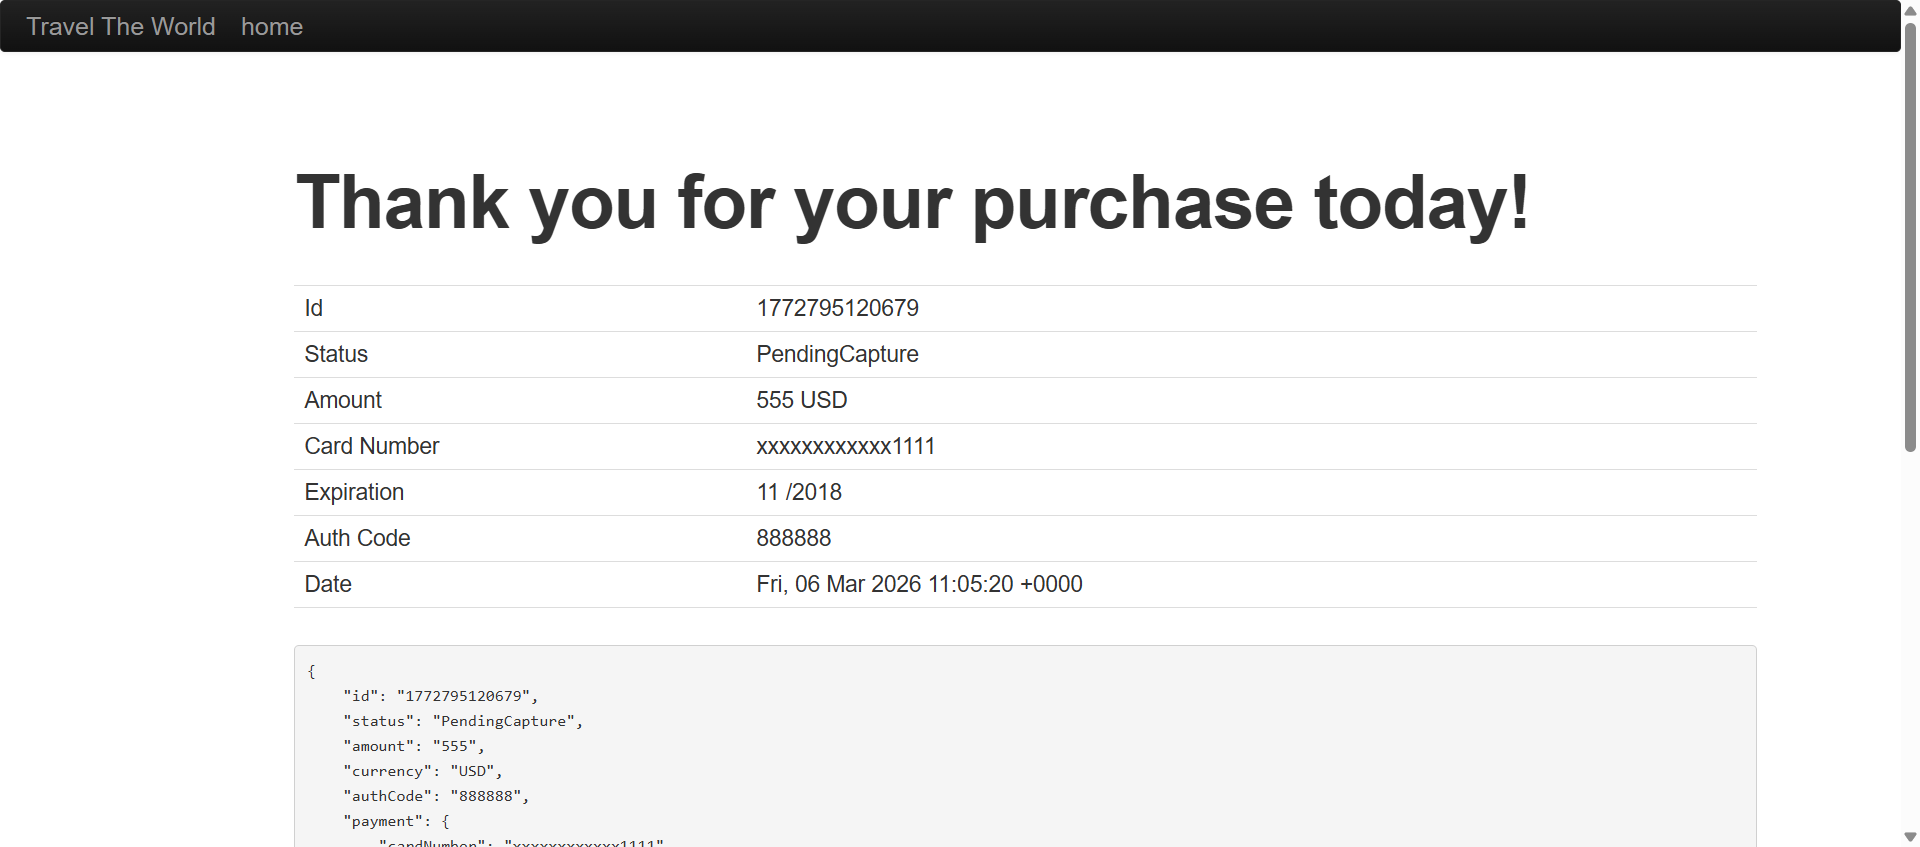
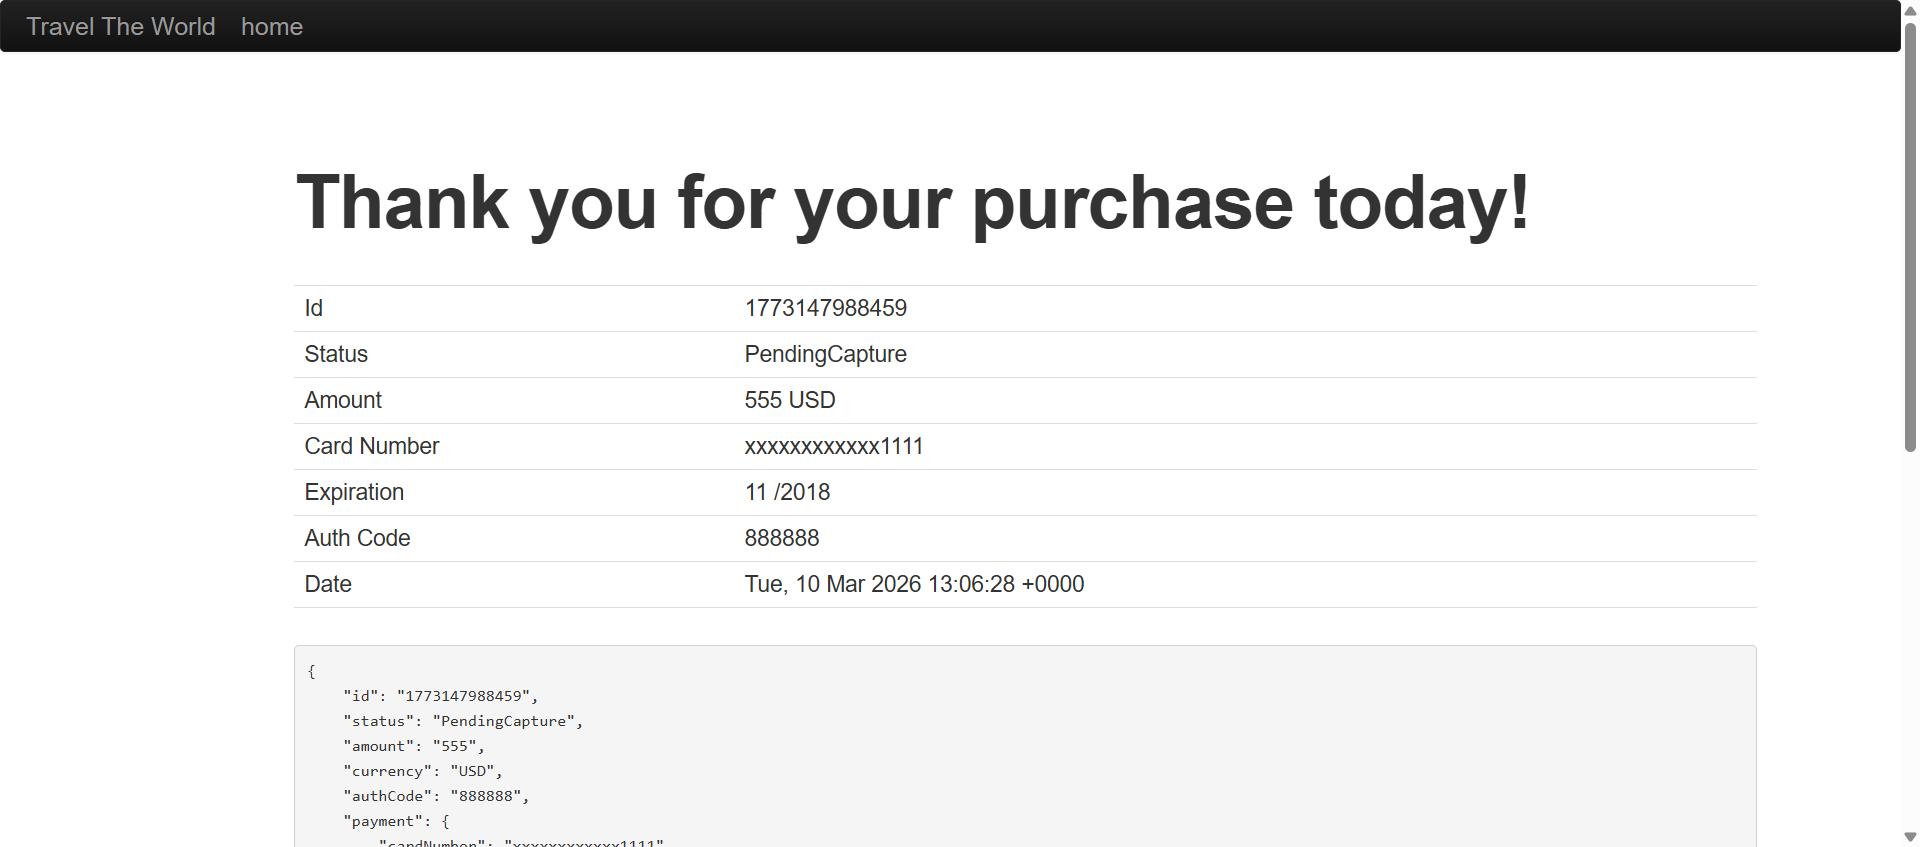
update

diff --git a/test-output/emailable-report.html b/test-output/emailable-report.html
@@ -9,9 +9,9 @@
 <table>
 <tr><th>Test</th><th># Passed</th><th># Skipped</th><th># Retried</th><th># Failed</th><th>Time (ms)</th><th>Included Groups</th><th>Excluded Groups</th></tr>
 <tr><th colspan="8">FlightSuite</th></tr>
-<tr><td><a href="#t0">FlightTest</a></td><td class="num">1</td><td class="num">0</td><td class="num">0</td><td class="num">0</td><td class="num">9,758</td><td></td><td></td></tr>
+<tr><td><a href="#t0">FlightTest</a></td><td class="num">1</td><td class="num">0</td><td class="num">0</td><td class="num">0</td><td class="num">17,339</td><td></td><td></td></tr>
 </table>
-<table id='summary'><thead><tr><th>Class</th><th>Method</th><th>Start</th><th>Time (ms)</th></tr></thead><tbody><tr><th colspan="4">FlightSuite</th></tr></tbody><tbody id="t0"><tr><th colspan="4">FlightTest &#8212; passed</th></tr><tr class="passedeven"><td rowspan="1">com.flightbooking.tests.FlightBookingTest</td><td><a href="#m0">bookFlightTest</a></td><td rowspan="1">1772795113464</td><td rowspan="1">4008</td></tr></tbody>
+<table id='summary'><thead><tr><th>Class</th><th>Method</th><th>Start</th><th>Time (ms)</th></tr></thead><tbody><tr><th colspan="4">FlightSuite</th></tr></tbody><tbody id="t0"><tr><th colspan="4">FlightTest &#8212; passed</th></tr><tr class="passedeven"><td rowspan="1">com.flightbooking.tests.FlightBookingTest</td><td><a href="#m0">bookFlightTest</a></td><td rowspan="1">1773147977770</td><td rowspan="1">10730</td></tr></tbody>
 </table>
 <h2>FlightTest</h2><h3 id="m0">com.flightbooking.tests.FlightBookingTest#bookFlightTest</h3><table class="result"><tr><th class="invisible"/></tr></table><p class="totop"><a href="#summary">back to summary</a></p>
 </body>

diff --git a/test-output/index.html b/test-output/index.html
@@ -189,12 +189,12 @@ data.addRows(1);
 data.setCell(0, 0, 0)
 data.setCell(0, 1, 'bookFlightTest')
 data.setCell(0, 2, 'com.flightbooking.tests.FlightBookingTest')
-data.setCell(0, 3, 4008);
+data.setCell(0, 3, 10730);
 window.suiteTableData['FlightSuite']= { tableData: data, tableDiv: 'times-div-FlightSuite'}
 return data;
 }
               </script>
-              <span class="suite-total-time">Total running time: 4 seconds</span>
+              <span class="suite-total-time">Total running time: 10 seconds</span>
               <div id="times-div-FlightSuite">
               </div> <!-- times-div-FlightSuite -->
             </div> <!-- times-div -->
@@ -227,11 +227,11 @@ return data;
               </div> <!-- configuration-method before -->
               <div class="test-method">
                 <span class="method-name">bookFlightTest</span>
-                <span class="method-start">5366 ms</span>
+                <span class="method-start">6343 ms</span>
               </div> <!-- test-method -->
               <div class="configuration-method after">
                 <span class="method-name">tearDown</span>
-                <span class="method-start">9382 ms</span>
+                <span class="method-start">17081 ms</span>
               </div> <!-- configuration-method after -->
           </div> <!-- main-panel-content rounded-window-bottom -->
         </div> <!-- panel -->

diff --git a/test-output/FlightSuite/FlightTest.html b/test-output/FlightSuite/FlightTest.html
@@ -57,9 +57,9 @@ function toggleAllBoxes() {
 <tr>
 <td>Tests passed/Failed/Skipped:</td><td>1/0/0</td>
 </tr><tr>
-<td>Started on:</td><td>Fri Mar 06 16:35:08 IST 2026</td>
+<td>Started on:</td><td>Tue Mar 10 18:36:11 IST 2026</td>
 </tr>
-<tr><td>Total time:</td><td>9 seconds (9758 ms)</td>
+<tr><td>Total time:</td><td>17 seconds (17339 ms)</td>
 </tr><tr>
 <td>Included groups:</td><td></td>
 </tr><tr>
@@ -78,8 +78,8 @@ function toggleAllBoxes() {
 <tr>
 <td title='com.flightbooking.tests.FlightBookingTest.bookFlightTest()'><b>bookFlightTest</b><br>Test class: com.flightbooking.tests.FlightBookingTest</td>
 <td></td>
-<td>4</td>
-<td>com.flightbooking.tests.FlightBookingTest@30c15d8b</td></tr>
+<td>10</td>
+<td>com.flightbooking.tests.FlightBookingTest@74235045</td></tr>
 </table><p>
 </body>
 </html>

diff --git a/src/test/java/com/flightbooking/tests/FlightBookingTest.java b/src/test/java/com/flightbooking/tests/FlightBookingTest.java
@@ -2,30 +2,34 @@ package com.flightbooking.tests;
 
 import org.testng.Assert;
 import org.testng.annotations.Test;
-
 import base.BaseClass;
 import pages.*;
 import utils.ScreenshotUtil;
 
+
 public class FlightBookingTest extends BaseClass {
 
 	@Test
-	public void bookFlightTest() {
+	public void bookFlightTest() throws InterruptedException {
 
 	HomePage home = new HomePage(driver);
 	home.selectCities();
 	home.clickFindFlights();
+	Thread.sleep(2000);
 
 	FlightsPage flights = new FlightsPage(driver);
 	flights.chooseFlight();
+	Thread.sleep(2000);
 
 	PurchasePage purchase = new PurchasePage(driver);
 	purchase.enterPassengerDetails();
 	purchase.enterPaymentDetails();
 	purchase.clickPurchaseFlight();
+	Thread.sleep(2000);
 
 	ConfirmationPage confirm = new ConfirmationPage(driver);
 	String message = confirm.getConfirmationMessage();
+	Thread.sleep(2000);
 
 	Assert.assertTrue(message.contains("Thank you"));
 	ScreenshotUtil.takeScreenshot(driver,"FlightBookingTest");

diff --git a/src/main/java/pages/PurchasePage.java b/src/main/java/pages/PurchasePage.java
@@ -13,10 +13,10 @@ this.driver = driver;
 public void enterPassengerDetails() {
 
 driver.findElement(By.id("inputName")).sendKeys("Kanchana");
-driver.findElement(By.id("address")).sendKeys("AP");
-driver.findElement(By.id("city")).sendKeys("Pithapuram");
-driver.findElement(By.id("state")).sendKeys("AP");
-driver.findElement(By.id("zipCode")).sendKeys("533450");
+driver.findElement(By.id("address")).sendKeys("puttaparthi");
+driver.findElement(By.id("city")).sendKeys("Anantapur");
+driver.findElement(By.id("state")).sendKeys("Andhrapradesh");
+driver.findElement(By.id("zipCode")).sendKeys("515134");
 
 }
 

diff --git a/src/test/java/base/BaseClass.java b/src/test/java/base/BaseClass.java
@@ -1,10 +1,7 @@
 package base;
 
 import org.openqa.selenium.WebDriver;
-
 import org.openqa.selenium.chrome.ChromeDriver;
-//import org.testng.annotations.AfterMethod;
-//import org.testng.annotations.BeforeMethod;
 import org.testng.annotations.*;
 
 

diff --git a/src/main/java/utils/ScreenshotUtil.java b/src/main/java/utils/ScreenshotUtil.java
@@ -1,9 +1,7 @@
 package utils;
 
-
 import java.io.File;
 import java.io.IOException;
-
 import org.apache.commons.io.FileUtils;
 import org.openqa.selenium.OutputType;
 import org.openqa.selenium.TakesScreenshot;
